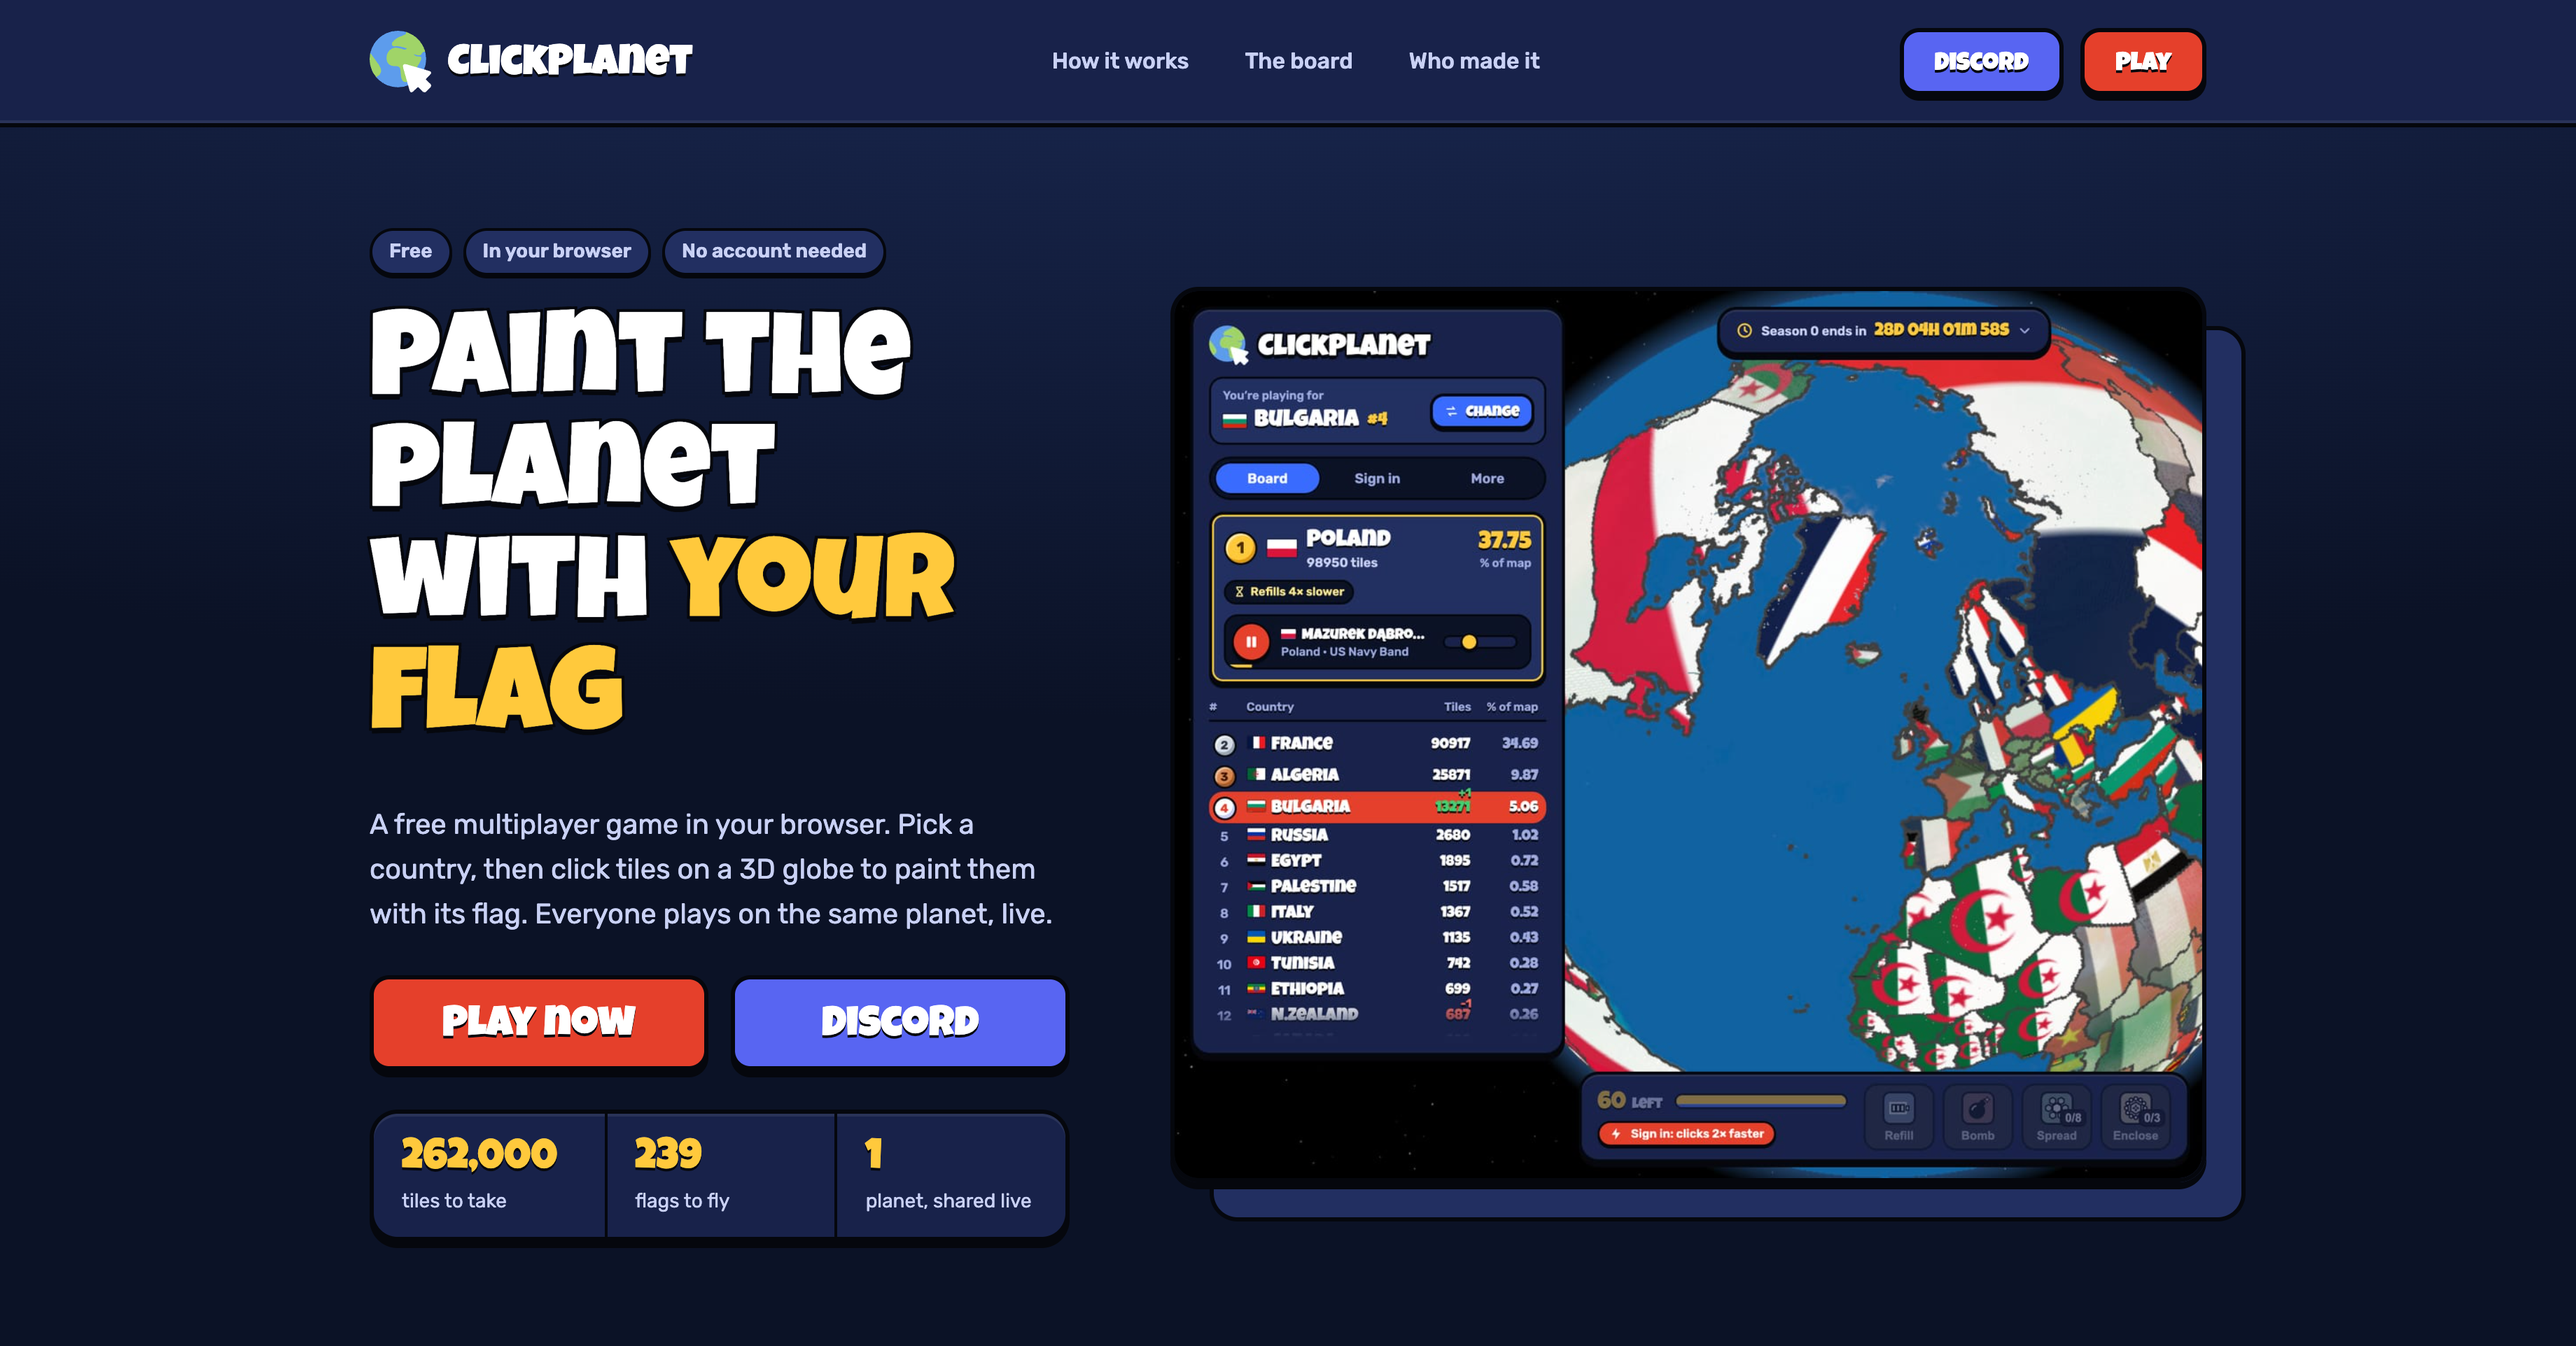
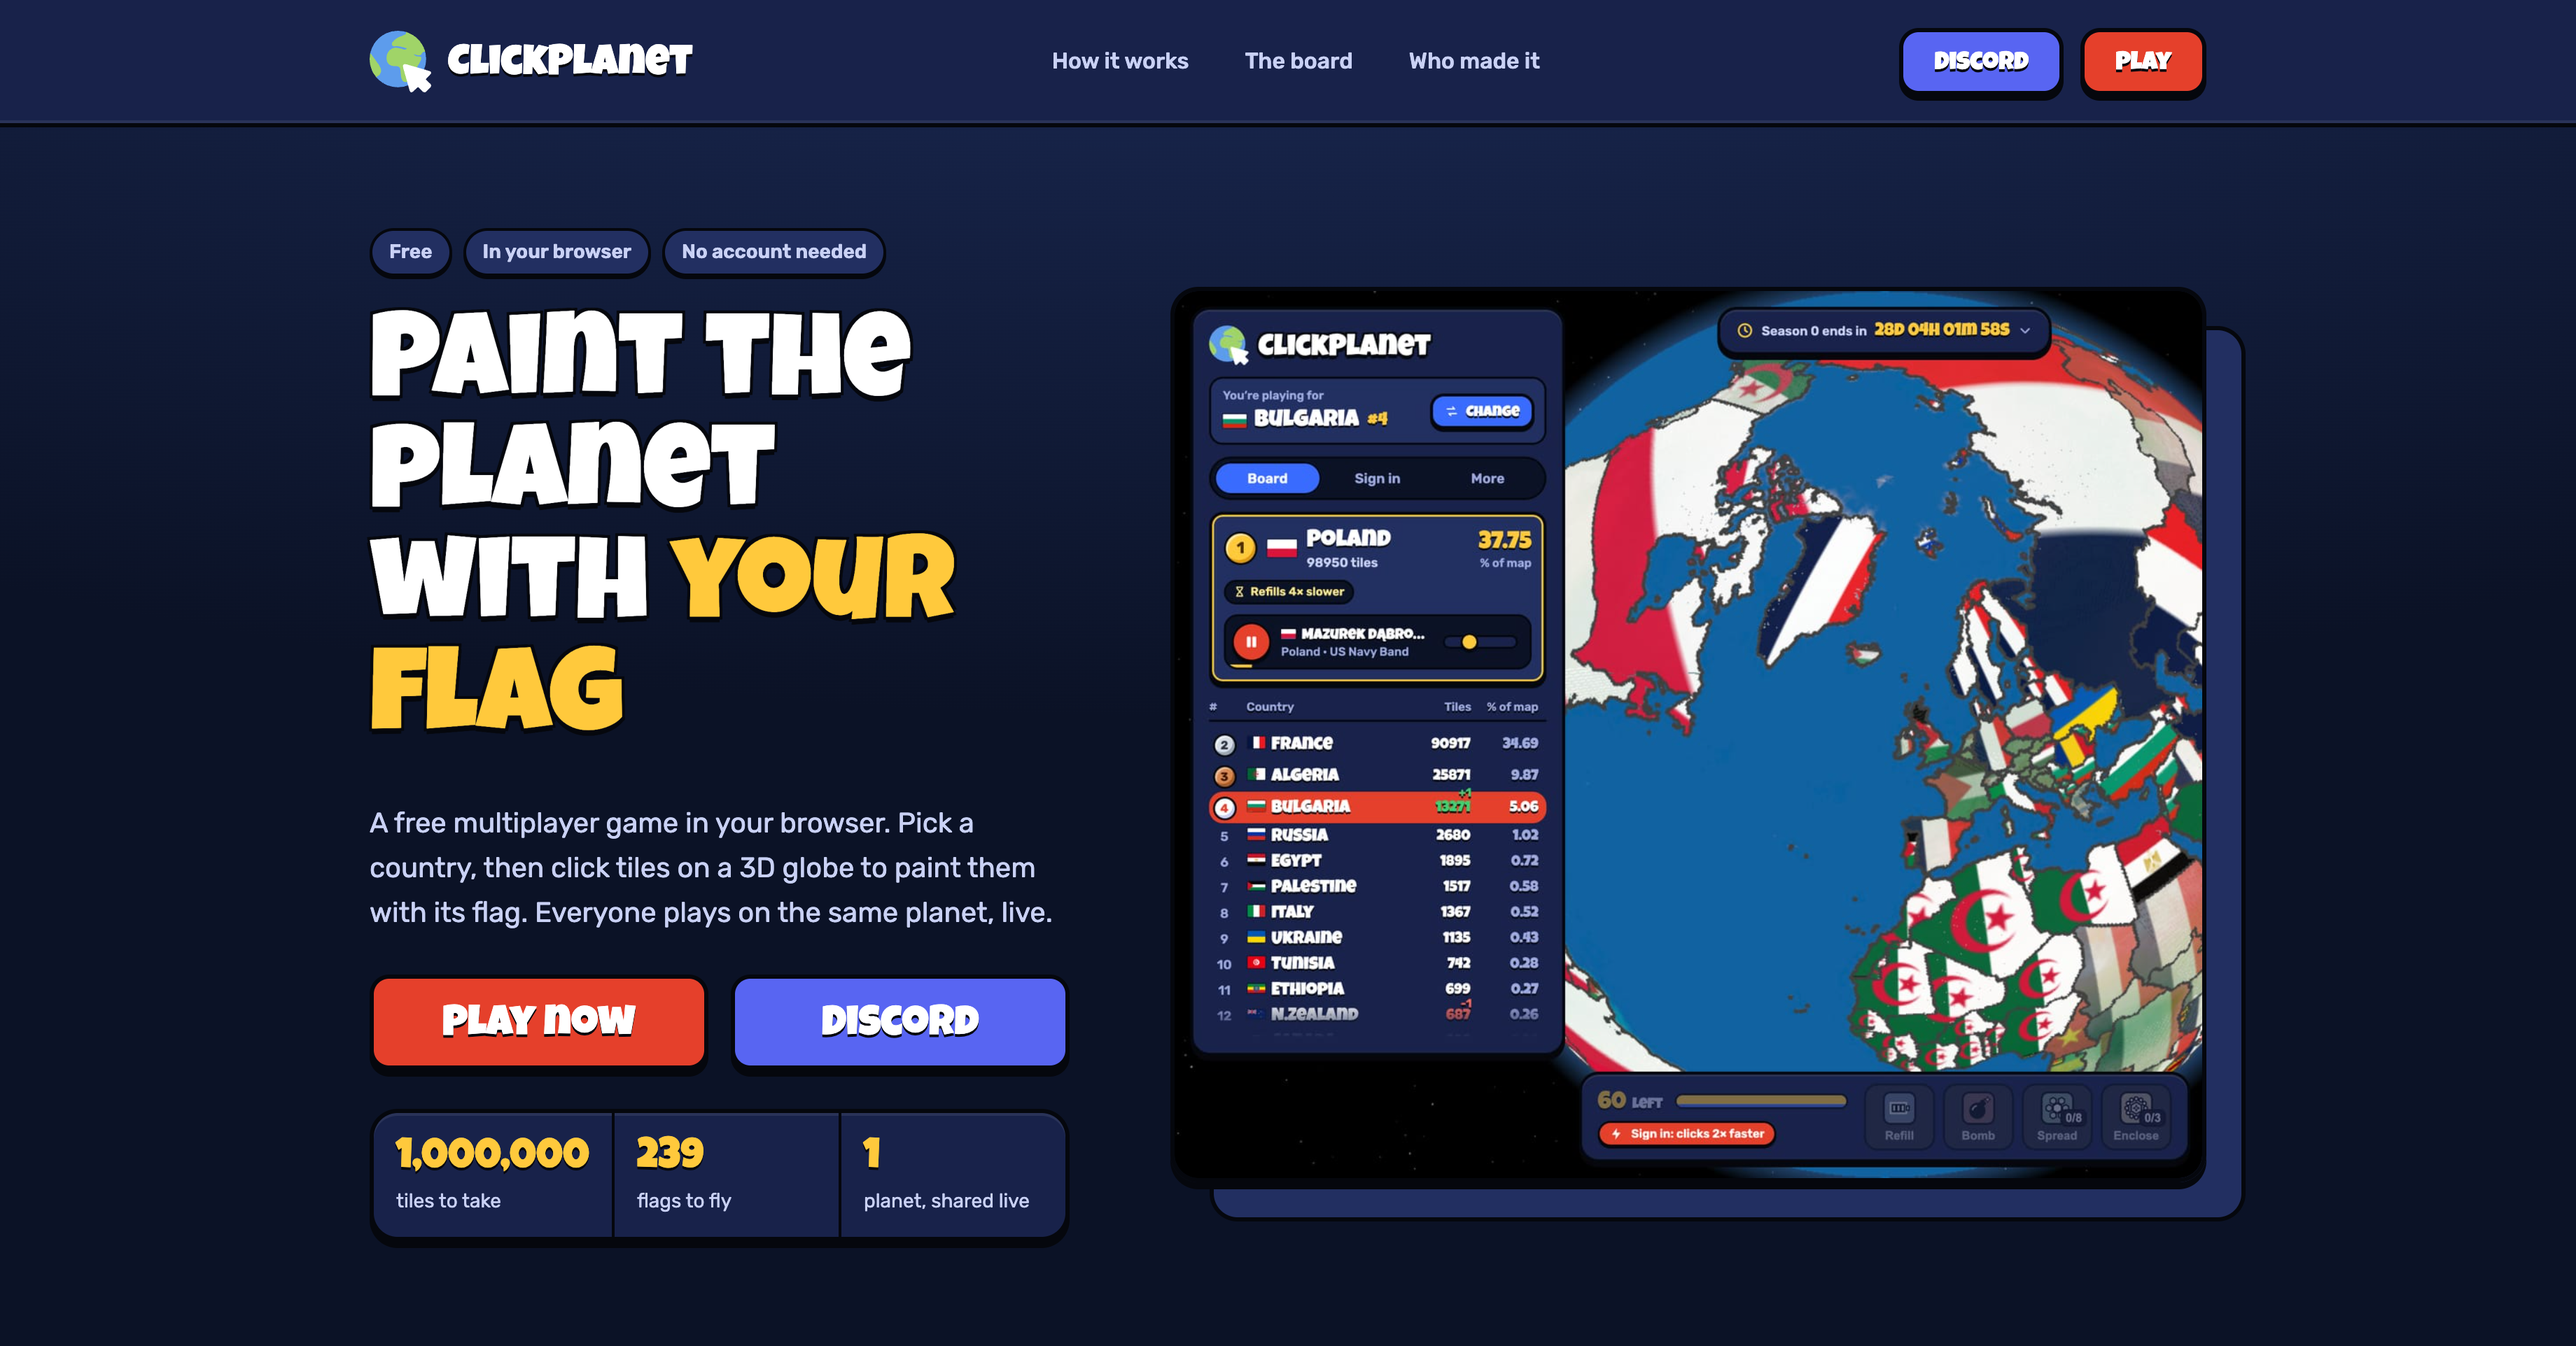
fix(home): a shared link shows its page's title and a million tiles
Telegram showed "Raphaël Oester" as the title of a shared /play link:
og:title was "ClickPlanet", the same as og:site_name, so Telegram dropped
it and showed the author tag in its place. og:title and twitter:title are
now each page's own title, and no page has the author tag.

The home page and its share image still said 262,000 tiles, earth-1's
count. They now say 1,000,000 (earth-2 has 1,004,682). The first count's
cell takes its number's width and the cells' side padding is 16px, so the
wider number fits from 320px to 1920px wide.

diff --git a/apps/frontend/index.html b/apps/frontend/index.html
@@ -41,28 +41,27 @@
     <meta name="viewport" content="width=device-width, initial-scale=1.0"/>
     <meta name="description"
           content="A live world map shared by players everywhere. Pick your country's flag, click tiles and take land from other countries. Free in the browser, no download."/>
-    <meta name="author" content="Raphaël Oester"/>
     <meta name="keywords" content="clickplanet, click, planet, multiplayer, online, game, conquer, world, map"/>
     <link rel="canonical" href="https://clickplanet.lol/"/>
 
-    <meta property="og:title" content="ClickPlanet"/>
+    <meta property="og:title" content="ClickPlanet · Paint the planet with your flag"/>
     <meta property="og:description" content="A live world map shared by players everywhere. Pick your country's flag, click tiles and take land from other countries. Free in the browser, no download."/>
     <meta property="og:type" content="website"/>
     <meta property="og:url" content="https://clickplanet.lol/"/>
     <meta property="og:site_name" content="ClickPlanet"/>
     <meta property="og:locale" content="en_US"/>
 
-    <meta property="og:image" content="https://clickplanet.lol/static/og-image-2e919462.jpg"/>
-    <meta property="og:image:secure_url" content="https://clickplanet.lol/static/og-image-2e919462.jpg"/>
+    <meta property="og:image" content="https://clickplanet.lol/static/og-image-79bd016a.jpg"/>
+    <meta property="og:image:secure_url" content="https://clickplanet.lol/static/og-image-79bd016a.jpg"/>
     <meta property="og:image:type" content="image/jpeg"/>
     <meta property="og:image:width" content="1200"/>
     <meta property="og:image:height" content="627"/>
     <meta property="og:image:alt" content="The ClickPlanet home page: Paint the planet with your flag, beside the game with its globe covered in flags and its country leaderboard"/>
 
     <meta name="twitter:card" content="summary_large_image"/>
-    <meta name="twitter:title" content="ClickPlanet"/>
+    <meta name="twitter:title" content="ClickPlanet · Paint the planet with your flag"/>
     <meta name="twitter:description" content="A live world map shared by players everywhere. Pick your country's flag, click tiles and take land from other countries. Free in the browser, no download."/>
-    <meta name="twitter:image" content="https://clickplanet.lol/static/og-image-2e919462.jpg"/>
+    <meta name="twitter:image" content="https://clickplanet.lol/static/og-image-79bd016a.jpg"/>
     <meta name="twitter:image:alt" content="The ClickPlanet home page: Paint the planet with your flag, beside the game with its globe covered in flags and its country leaderboard"/>
     <meta name="twitter:site" content="@raphael_oester"/>
 
@@ -88,7 +87,7 @@
                     "alternateName": "Click Planet",
                     "url": "https://clickplanet.lol/",
                     "description": "A live world map shared by players everywhere. Pick your country's flag, click tiles and take land from other countries. Free in the browser, no download.",
-                    "image": "https://clickplanet.lol/static/og-image-2e919462.jpg",
+                    "image": "https://clickplanet.lol/static/og-image-79bd016a.jpg",
                     "genre": ["Multiplayer", "Strategy"],
                     "gamePlatform": "Web browser",
                     "playMode": "MultiPlayer",
@@ -361,7 +360,7 @@
 
         .stats {
             display: grid;
-            grid-template-columns: repeat(3, minmax(0, 1fr));
+            grid-template-columns: max-content repeat(2, minmax(0, 1fr));
             margin: 0;
             padding: 0;
             list-style: none;
@@ -371,7 +370,7 @@
             display: flex;
             flex-direction: column;
             gap: 6px;
-            padding: 18px 20px 16px;
+            padding: 18px 16px 16px;
         }
 
         .stats li + li {
@@ -1574,7 +1573,7 @@
                     <a class="button button-discord button-large" href="/play?discord=join">Discord</a>
                 </div>
                 <ul class="stats panel">
-                    <li><strong>262,000</strong><span>tiles to take</span></li>
+                    <li><strong>1,000,000</strong><span>tiles to take</span></li>
                     <li><strong>239</strong><span>flags to fly</span></li>
                     <li><strong>1</strong><span>planet, shared live</span></li>
                 </ul>

diff --git a/apps/frontend/play.html b/apps/frontend/play.html
@@ -77,28 +77,27 @@
     </script>
     <meta name="viewport" content="width=device-width, initial-scale=1.0"/>
     <meta name="description" content="A live world map shared by players everywhere. Pick your country's flag, click tiles and take land from other countries. Free in the browser, no download."/>
-    <meta name="author" content="Raphaël Oester"/>
     <meta name="keywords" content="clickplanet, click, planet, multiplayer, online, game, conquer, world, map"/>
     <link rel="canonical" href="https://clickplanet.lol/play"/>
 
-    <meta property="og:title" content="ClickPlanet"/>
+    <meta property="og:title" content="Play ClickPlanet · The live flag war on a world map"/>
     <meta property="og:description" content="A live world map shared by players everywhere. Pick your country's flag, click tiles and take land from other countries. Free in the browser, no download."/>
     <meta property="og:type" content="website"/>
     <meta property="og:url" content="https://clickplanet.lol/play"/>
     <meta property="og:site_name" content="ClickPlanet"/>
     <meta property="og:locale" content="en_US"/>
 
-    <meta property="og:image" content="https://clickplanet.lol/static/og-image-2e919462.jpg"/>
-    <meta property="og:image:secure_url" content="https://clickplanet.lol/static/og-image-2e919462.jpg"/>
+    <meta property="og:image" content="https://clickplanet.lol/static/og-image-79bd016a.jpg"/>
+    <meta property="og:image:secure_url" content="https://clickplanet.lol/static/og-image-79bd016a.jpg"/>
     <meta property="og:image:type" content="image/jpeg"/>
     <meta property="og:image:width" content="1200"/>
     <meta property="og:image:height" content="627"/>
     <meta property="og:image:alt" content="The ClickPlanet home page: Paint the planet with your flag, beside the game with its globe covered in flags and its country leaderboard"/>
 
     <meta name="twitter:card" content="summary_large_image"/>
-    <meta name="twitter:title" content="ClickPlanet"/>
+    <meta name="twitter:title" content="Play ClickPlanet · The live flag war on a world map"/>
     <meta name="twitter:description" content="A live world map shared by players everywhere. Pick your country's flag, click tiles and take land from other countries. Free in the browser, no download."/>
-    <meta name="twitter:image" content="https://clickplanet.lol/static/og-image-2e919462.jpg"/>
+    <meta name="twitter:image" content="https://clickplanet.lol/static/og-image-79bd016a.jpg"/>
     <meta name="twitter:image:alt" content="The ClickPlanet home page: Paint the planet with your flag, beside the game with its globe covered in flags and its country leaderboard"/>
     <meta name="twitter:site" content="@raphael_oester"/>
 

diff --git a/apps/frontend/archive.html b/apps/frontend/archive.html
@@ -4,7 +4,6 @@
     <meta charset="UTF-8"/>
     <meta name="viewport" content="width=device-width, initial-scale=1.0"/>
     <meta name="description" content="A live world map shared by players everywhere. Pick your country's flag, click tiles and take land from other countries. Free in the browser, no download."/>
-    <meta name="author" content="Raphaël Oester"/>
     <meta name="keywords" content="clickplanet, click, planet, multiplayer, online, game, conquer, world, map"/>
     <link rel="canonical" href="https://clickplanet.lol/archive"/>
 
@@ -15,8 +14,8 @@
     <meta property="og:site_name" content="ClickPlanet"/>
     <meta property="og:locale" content="en_US"/>
 
-    <meta property="og:image" content="https://clickplanet.lol/static/og-image-2e919462.jpg"/>
-    <meta property="og:image:secure_url" content="https://clickplanet.lol/static/og-image-2e919462.jpg"/>
+    <meta property="og:image" content="https://clickplanet.lol/static/og-image-79bd016a.jpg"/>
+    <meta property="og:image:secure_url" content="https://clickplanet.lol/static/og-image-79bd016a.jpg"/>
     <meta property="og:image:type" content="image/jpeg"/>
     <meta property="og:image:width" content="1200"/>
     <meta property="og:image:height" content="627"/>
@@ -25,7 +24,7 @@
     <meta name="twitter:card" content="summary_large_image"/>
     <meta name="twitter:title" content="ClickPlanet archive"/>
     <meta name="twitter:description" content="A live world map shared by players everywhere. Pick your country's flag, click tiles and take land from other countries. Free in the browser, no download."/>
-    <meta name="twitter:image" content="https://clickplanet.lol/static/og-image-2e919462.jpg"/>
+    <meta name="twitter:image" content="https://clickplanet.lol/static/og-image-79bd016a.jpg"/>
     <meta name="twitter:image:alt" content="The ClickPlanet home page: Paint the planet with your flag, beside the game with its globe covered in flags and its country leaderboard"/>
     <meta name="twitter:site" content="@raphael_oester"/>
 

diff --git a/apps/frontend/docs/static-assets.md b/apps/frontend/docs/static-assets.md
@@ -89,6 +89,9 @@ chat. To retake it:
   --screenshot=static/og-source.png https://clickplanet.lol/
 ```
 
+When the hero itself changes, take it from `npm run dev` before the deploy, with the same flags on
+`http://localhost:5173/`. Not with `VITE_FAKE_BACKEND=1`: the fake's season pill would show above the pills.
+
 Chrome may not exit after it writes the file; stop it once the file is there.
 
 `public/` holds the files that must be served as themselves rather than as the
@@ -137,8 +140,8 @@ script but the redirect and `src/home.ts`, which fills the season, battle and Fi
 first landing. **It sells the game, not its mechanics**: country
 against country on one live planet. What only makes sense once playing (signing
 in to click faster, bonus boxes, the camera) stays in the game. The hero's
-counts are written by hand, since plain HTML cannot read them: 262,000 tiles is
-`earth-1`'s manifest's `tiles` (260,503), 239 flags is
+counts are written by hand, since plain HTML cannot read them: 1,000,000 tiles is
+`earth-2`'s manifest's `tiles` (1,004,682) rounded down, 239 flags is
 `static/countries/countries.json`. Its screenshots are `static/home/*.jpg`,
 taken from the live game at 1440×900 (390×844 for the phone) at 2× with a fresh
 profile; a new one must not show the chat, which carries players' own words, and

diff --git a/apps/frontend/docs/search.md b/apps/frontend/docs/search.md
@@ -6,7 +6,9 @@ know the name in every spelling, say plainly what the game is, and show one site
 ## What Google reads
 
 - **Titles.** `/` is `ClickPlanet · Paint the planet with your flag`, `/play` is
-  `Play ClickPlanet · The live flag war on a world map`, `/archive` is `ClickPlanet archive`.
+  `Play ClickPlanet · The live flag war on a world map`, `/archive` is `ClickPlanet archive`. `og:title` and
+  `twitter:title` are the same title, never the bare `og:site_name`: Telegram drops a title equal to the site name and
+  showed the old `meta name=author` in its place. No page has that tag.
 - **One description** in `meta name=description`, `og:description` and `twitter:description` of `index.html`,
   `play.html` and `archive.html`, and in the JSON-LD's `VideoGame`: what the game is, and why it is not an idle
   clicker (land taken from other countries, on one live map). Change all of them together. Plain words: a poetic line
